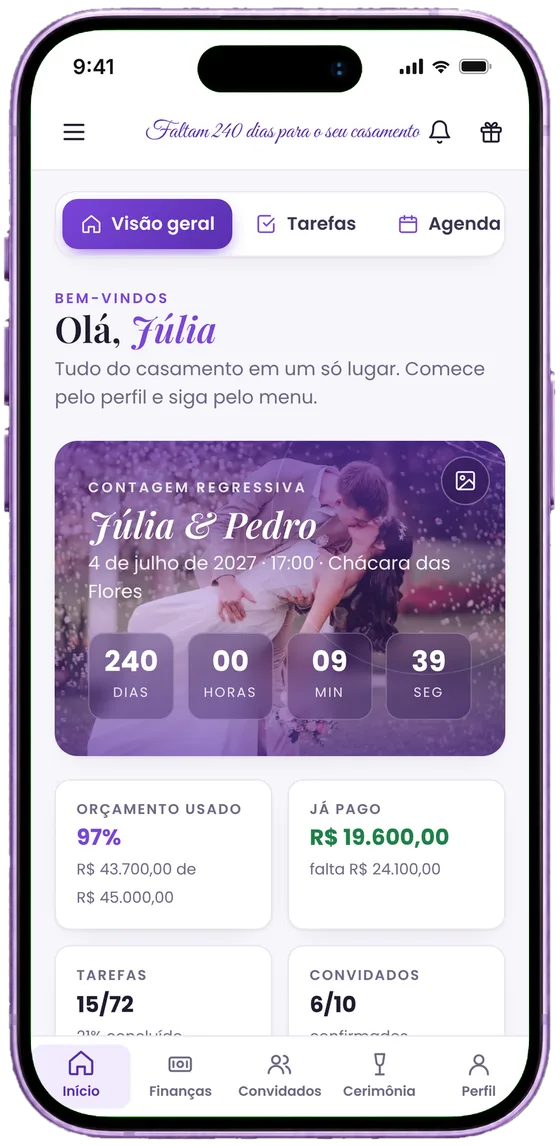
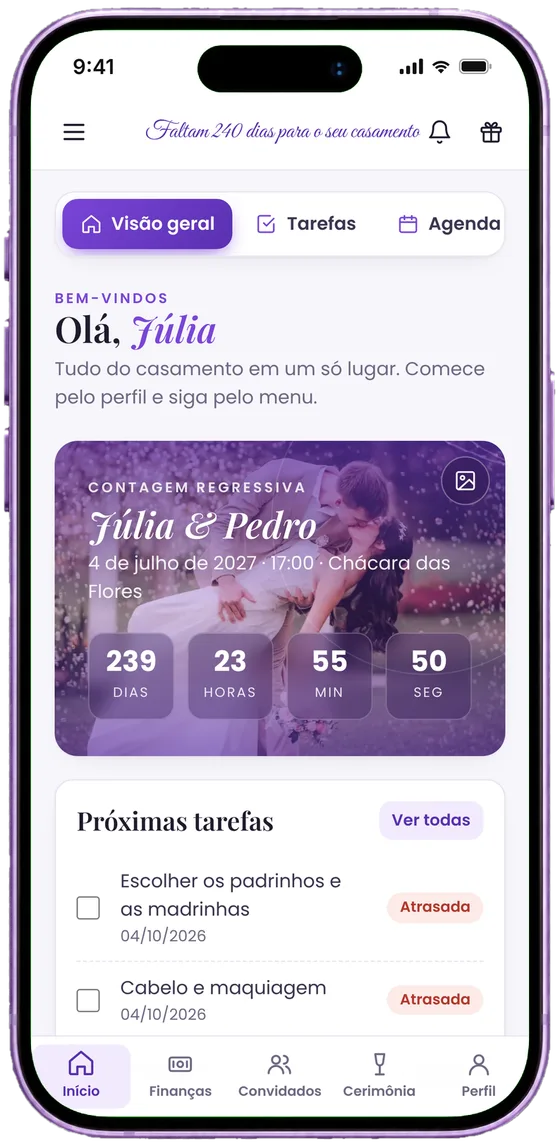
Página do app: cards do início saem do celular na rolagem; frase 'em um lugar só'
Claude-Session: https://claude.ai/code/session_016oanMoqSLwB8wD9WTYZ31H

diff --git a/pagina/index.html b/pagina/index.html
@@ -309,6 +309,8 @@ header{position:sticky;top:0;z-index:40}
 /* celular realista: a moldura já vem na imagem */
 .fone{aspect-ratio:560/1146;border:0;border-radius:0;background:none;overflow:visible;box-shadow:none;filter:drop-shadow(0 34px 34px rgba(40,10,90,.32)) drop-shadow(0 6px 10px rgba(40,10,90,.12))}
 .fone img{object-fit:contain;object-position:center}
+.kpi-voa{position:absolute;width:42.5%;z-index:3;will-change:transform}
+.kpi-voa img{width:100%;height:auto;position:static;border-radius:10px;box-shadow:0 18px 30px -14px rgba(40,10,90,.45)}
 /* sem animação: tudo parado e visível */
 .sem-anim .c1-frase{position:static;opacity:1;padding:24px 22px 40px}
 .sem-anim .c1{height:auto;padding-bottom:20px}
@@ -330,8 +332,8 @@ header{position:sticky;top:0;z-index:40}
     <p class="lead">Orçamento, fornecedores, convidados, mesas e tarefas com prazo, salvos na sua conta.</p>
     <a class="c1-cta" href="#planos">Quero meu app agora</a>
   </div>
-  <div class="fone" id="fone1"><img src="/img/pagina/fone-inicio.webp?v=2" alt="Tela inicial do app com a contagem regressiva, o orçamento e as tarefas" width="560" height="1146" fetchpriority="high"></div>
-  <div class="c1-frase" id="frase1"><p><span>Orçamento, convidados, tarefas e fornecedores.</span>Tudo do casamento <em>num lugar só.</em></p></div>
+  <div class="fone" id="fone1"><img src="/img/pagina/fone-inicio.webp?v=3" alt="Tela inicial do app com a contagem regressiva, o orçamento e as tarefas" width="560" height="1146" fetchpriority="high"><div class="kpi-voa" data-k="0" style="left:7%;top:61.5%"><img src="/img/pagina/kpi0.webp" alt="Orçamento usado: 97%" width="360" height="262"></div><div class="kpi-voa" data-k="1" style="left:50.5%;top:61.5%"><img src="/img/pagina/kpi1.webp" alt="Já pago: R$ 19.600,00" width="360" height="262"></div><div class="kpi-voa" data-k="2" style="left:7%;top:77%"><img src="/img/pagina/kpi2.webp" alt="Tarefas: 15 de 72" width="360" height="225"></div><div class="kpi-voa" data-k="3" style="left:50.5%;top:77%"><img src="/img/pagina/kpi3.webp" alt="Convidados: 6 de 10 confirmados" width="360" height="225"></div></div>
+  <div class="c1-frase" id="frase1"><p><span>Orçamento, convidados, tarefas e fornecedores.</span>Tudo do casamento <em>em um lugar só.</em></p></div>
 </section>
 
 <section class="cena c2" id="cena2">
@@ -511,6 +513,14 @@ window.addEventListener('DOMContentLoaded', function () {
     tl1.to(e, { x: dx * 2.2, y: dy * 2.2, rotation: (i % 2 ? 1 : -1) * 18, scale: 1.25, ease: 'none', duration: .6 }, 0)
        .to(e, { x: dx * 1.1, y: dy * 1.1 - 20, scale: .9, opacity: .85, ease: 'none', duration: .4 }, .6);
   });
+  /* os 4 cards saem de dentro do celular e ficam flutuando em volta dele */
+  var voa = gsap.utils.toArray('.kpi-voa');
+  gsap.set(voa, { opacity: 0, scale: .55 });
+  voa.forEach(function (c, i) {
+    var lado = i % 2 ? 1 : -1, baixo = i > 1 ? 1 : 0;
+    tl1.to(c, { opacity: 1, scale: cel ? 1.3 : 1.55, xPercent: lado * (cel ? 88 : 118) + lado * baixo * 12, yPercent: baixo ? 40 : -50, rotation: lado * (baixo ? 6 : -5), ease: 'power1.out', duration: .3 }, i * .025);
+  });
+  tl1.to(voa, { opacity: 0, y: -40, ease: 'none', duration: .2 }, .55);
   tl1.fromTo('#frase1', { opacity: 0, scale: .94, filter: 'blur(14px)' }, { opacity: 1, scale: 1, filter: 'blur(0px)', ease: 'none', duration: .4 }, .55);
 
   /* cena 2: o app se abre em camadas, com o nome de cada parte */
